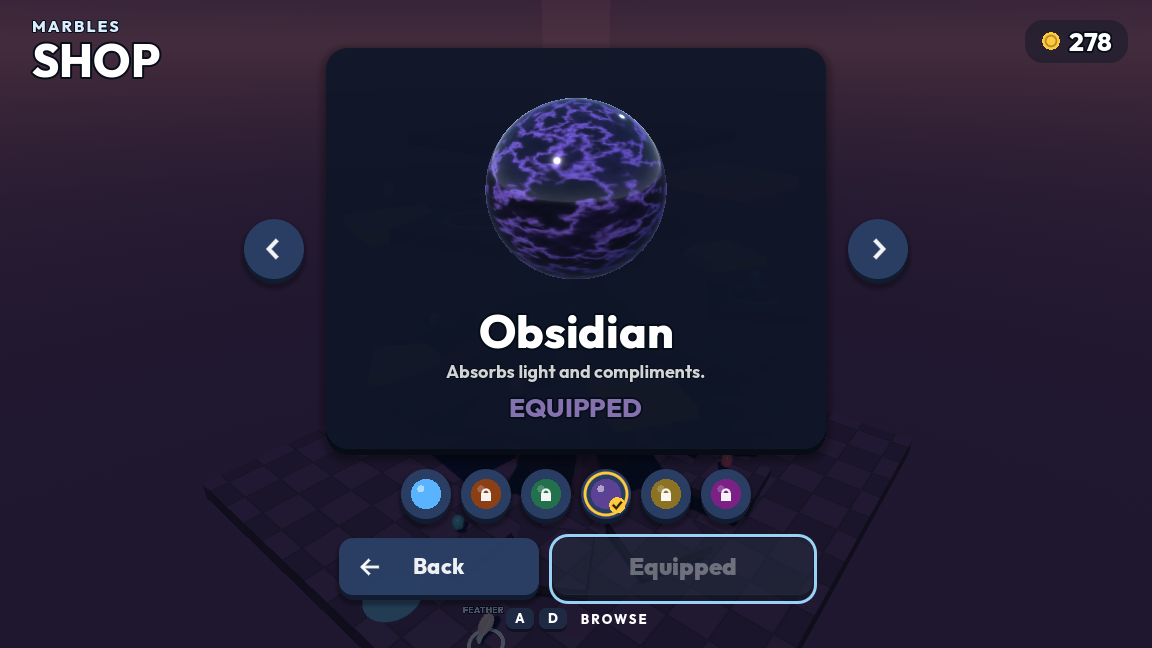
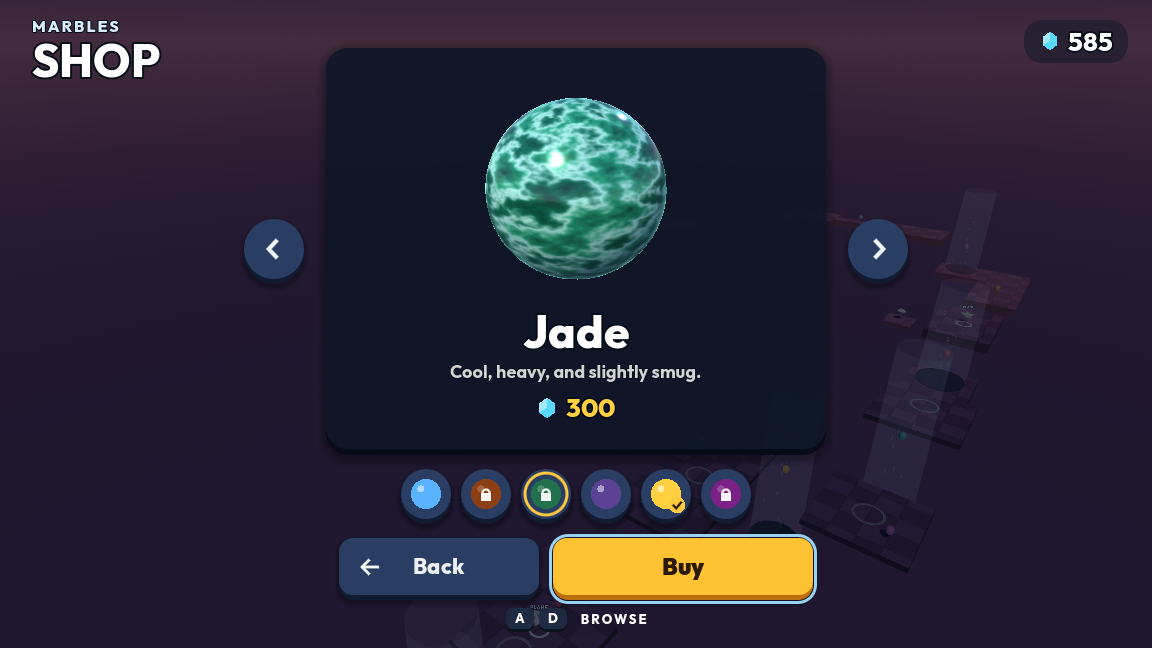
docs: describe gems as the currency and the secret diamonds

diff --git a/docs/levels.md b/docs/levels.md
@@ -116,6 +116,7 @@ Things to know:
 | `key`, `gate` | A key is carried; a gate opens for one key. |
 | `water` | A box of water: slow sinking, drag, and jump becomes a swim stroke. |
 | `tip` | A line of text shown on the HUD when the marble gets close. |
+| `secret`, `secret_ledge`, `secret_nook` | The level's one secret diamond: bare, on a ledge of its own, or tucked under the lip of a floor. |
 
 ## The ruler
 
@@ -156,6 +157,28 @@ level card (`LevelDef.conditions`):
 | `gravity_scale` | `0.35` is the moon: a jump about 4 high and two seconds long. `1.4` is heavy: a jump about 1 high, gaps of 1.5, steps of 0.6. |
 | `wind` | A steady acceleration on the marble, e.g. `Vector3(3, 0, 0)`. Not felt under water or with grip. On ice the wind wins outright, so give a kerb or the grip power-up. Do not put a cannon in a windy level: its shot is not corrected for wind. |
 | `dark` | Night. The sun is all but out and the marble carries a lamp. Glowing things (gems, pads, beams) still show. |
+
+## The secret diamond
+
+Every level has exactly one. It never blocks the finish, it is only kept if
+it is carried there, and finding it for the first time pays 50 gems. The
+level card and the HUD show whether it is held.
+
+Hide it by action rather than by position alone. The ways in use:
+
+| Way | How |
+| --- | --- |
+| Under a lip | `b.secret_nook(edge, outward)`: a ledge below the floor's edge with the diamond at the back, out of sight from on top. Roll off slowly and roll in under. |
+| Off the route | `b.secret_ledge(top)`: a ledge behind the start, out to one side, or above a deck that only a power-up reaches. |
+| Behind a button | `b.button(at, [b.secret(spot, true)])`: a concealed diamond comes out when a button somewhere unlikely is pressed. |
+| Carried by a rival | `keeper.reveals = [b.secret(spot, true)]`: it comes out when that rival is popped. |
+
+A ledge off the path can be a one-way trip. Stepping off afterwards is a
+respawn, and the diamond stays in hand. `Trail` has the same set as
+`secret_behind`, `secret_below`, `secret_side`, `secret_guard`, and
+`secret_switch` with `secret_reveal`.
+
+The test bot does not look for diamonds. Each one needs finding by hand.
 
 ## Rival marbles
 

diff --git a/README.md b/README.md
@@ -64,10 +64,14 @@ every gem to open the finish, then do it again faster for the stars.
   side, and picking up another of the same adds its time.
 - **Traps** — pickups in a dark bubble that slow you, reverse your steering
   or weigh you down for a few seconds. A shield soaks them up.
+- **A secret diamond in every level** — off the route, under a ledge, behind
+  a hidden button, or carried by a rival you have to pop. It never blocks
+  the finish, it only counts if you carry it there, and the level select
+  shows which ones you have.
 - **Stars and best times** — three stars per level against gold and silver
   targets. Checkpoints mean a fall costs time, not the attempt.
-- **Coins and skins** — gems and new stars pay coins, spent on marbles in the
-  shop.
+- **Gems and skins** — every gem you collect is banked when you finish, new
+  stars and secret diamonds pay a bonus, and gems buy marbles in the shop.
 - **Ten palettes** — meadow, desert, tundra, dusk, reef, moon, night, storm,
   foundry and canyon.
 - **Cheat codes** — typed during play, no menu. See below.
@@ -148,7 +152,7 @@ The camera also follows the marble on its own, so the movement keys and
 ### Cheats
 
 Type a word during a level. There is no prompt; the HUD confirms it. A run that
-used a cheat still finishes, but records no time, stars or coins and does not
+used a cheat still finishes, but records no time, stars, gems or secret diamond and does not
 unlock the next level. The last two do not touch the run, so they are exempt.
 
 | Code | Effect |
@@ -162,7 +166,7 @@ unlock the next level. The last two do not touch the run, so they are exempt.
 | `SKELETONKEY` | Three keys |
 | `BOWLING` | Rival marbles knocked out |
 | `TOOLKIT` | Every power-up at once |
-| `GOLDMINE` | 500 coins |
+| `GOLDMINE` | 500 gems |
 | `ALLACCESS` | Every level unlocked |
 
 ## Deployment

diff --git a/docs/architecture.md b/docs/architecture.md
@@ -6,7 +6,7 @@ anything.
 ## Layout
 
 ```
-autoload/      GameState (progress, coins, skins), SceneManager, Audio, Controls
+autoload/      GameState (progress, gems, secret diamonds, skins), SceneManager, Audio, Controls
 game/          Gameplay root, the orbit camera and the cheat codes
 player/        The marble
 levels/        LevelDef, LevelBuilder, LevelCatalog, and one script per level
@@ -86,8 +86,10 @@ picture:
 A level is finished by touching the finish with every gem collected. The save
 file keeps the best time per level id; stars are derived from that time against
 the level's gold and silver targets, never stored. A level unlocks when the one
-before it has been finished. Coins are paid per gem on every finish and per
-star the first time it is earned, and are spent on skins.
+before it has been finished. Gems are the currency: every gem collected is banked
+on every finish, with a bonus per star and per secret diamond the first time
+each is earned, and they are spent on skins. The save also lists the levels
+whose secret diamond has been carried to the finish.
 
 Falling off, or touching a hazard, returns the marble to the last checkpoint.
 The clock keeps running: a fall costs time, not the attempt.
